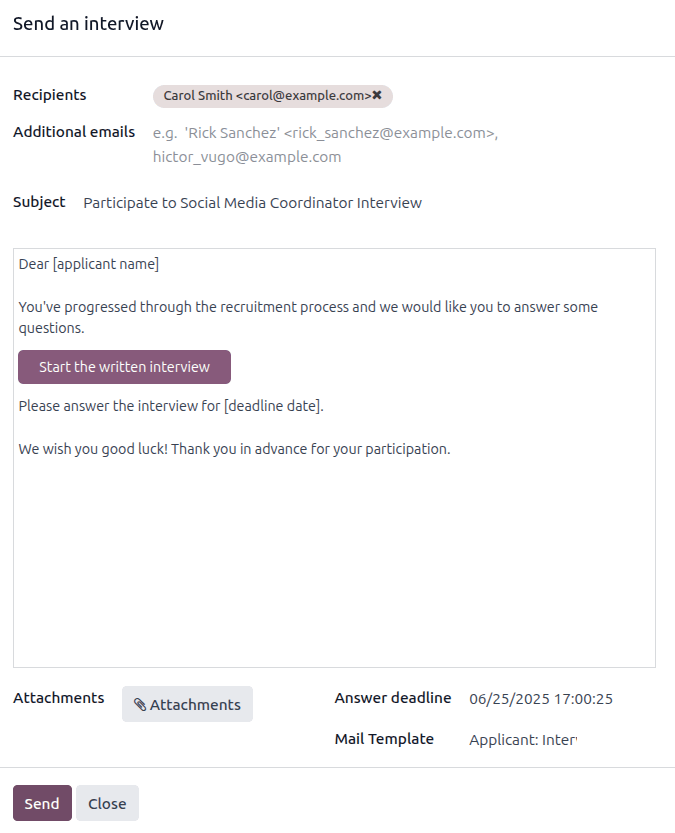
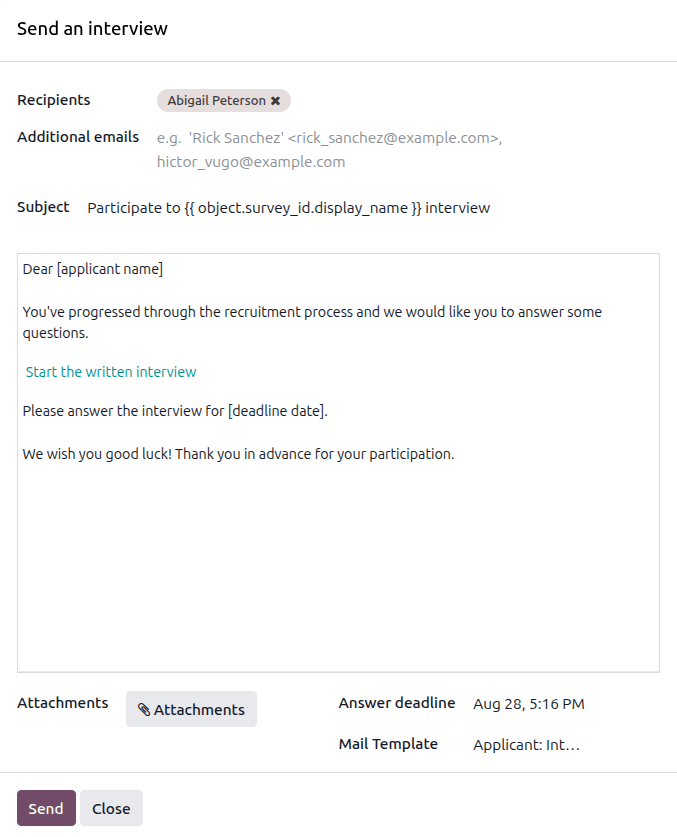
[IMP] Recruitment - Update recruitment flow
closes odoo/documentation#19516

X-original-commit: 29d9d3184c7de5220a4c6d2a27e49932e2eca468

diff --git a/content/applications/hr/recruitment/recruitment-flow.rst b/content/applications/hr/recruitment/recruitment-flow.rst
@@ -3,46 +3,43 @@ Recruitment flow
 ================
 
 When a prospective employee applies for a job in Odoo, there is a preconfigured process from the
-:ref:`initial inquiry <recruitment/new>` to the :ref:`creating of a new employee
-<recruitment/new-employee>` once hired. The following outlines the default recruitment process for
-Odoo's **Recruitment** application.
+:ref:`initial inquiry <recruitment/recruitment_flow/new>` to the :ref:`creation of a new employee
+<recruitment/offer_job_position/new-employee>` once hired. The following outlines the default
+recruitment process for Odoo's **Recruitment** application.
 
 .. important::
-   The following is based on Odoo's default recruitment pipeline. Be advised that if
+   The following is based on Odoo's *default* recruitment pipeline. Be advised that if
    :ref:`modifications are made <recruitment/customize-stages>` to the pipeline, the process
    differs.
 
-.. _recruitment/new:
+.. _recruitment/recruitment_flow/new:
 
 New
 ===
 
 At the start of the process, all applicants appear in the :guilabel:`New` stage on the
-:guilabel:`Applications` page, whether submitted online or if the applicant is :doc:`manually
-entered by a recruiter <add-new-applicants>`.
+*Applications* page, whether they submitted through the company website, emailed a resumé to the
+email alias, or were :doc:`manually added by a recruiter <add-new-applicants>`.
 
-The :guilabel:`Candidate`, :guilabel:`Email`, and :guilabel:`Phone` number on the applicant's card
+The :guilabel:`Applicant`, :guilabel:`Email`, and :guilabel:`Phone` number on the applicant's card
 are filled as soon as it is created. By default, these details are required for every job position.
 
 .. note::
    If the website application form is modified, different fields may be populated, based on what
    information is required on the website.
 
-Anything typed in the *Short Introduction* section appears in the applicant's chatter as an
-:guilabel:`Other Information` note from :guilabel:`OdooBot`.
+Anything typed in the *Short Introduction* section appears in the applicant's chatter as a note from
+:guilabel:`OdooBot`, labeled *Other Information*.
 
 Resumé
 ------
 
-If a resumé was attached to the online application, it appears in the :guilabel:`Files` section of
-the chatter, and is also stored in the **Documents** application.
+If a resumé was attached to the online application, it appears in the *Files* section of the
+chatter, and is also stored in the **Documents** application.
 
-To find the recruitment documents, navigate to the main :menuselection:`Documents app` dashboard,
-and click the :guilabel:`Recruitment` folder on the left-hand side. All recruitment documents are
-stored within that folder.
-
-If the :ref:`CV Display <recruitment/cv-display>` option was enabled in the :ref:`Settings
-<recruitment/settings>` of the **Recruitment** app, the resumé appears on the applicant's card.
+To find the recruitment documents, navigate to the main :menuselection:`Documents` app dashboard,
+and click the :guilabel:`Recruitment` folder on the side. All recruitment documents are stored
+within that folder.
 
 .. note::
    Depending on the browser zoom level, or size of the browser screen, the resumé may appear below
@@ -58,9 +55,8 @@ The **Surveys** application is required to send interviews to an applicant, so i
 installed.
 
 Odoo uses the term *interview*, but these can be thought of as questionnaires, surveys, tests,
-certifications, etc. Custom interviews can be formatted to suit each individual job position's
-needs. For more information on creating and editing interviews, refer to the
-:doc:`../../hr/recruitment/new_job` documentation.
+certifications, etc. :doc:`Custom interviews <new_job>` can be formatted to suit each individual job
+position's needs.
 
 .. example::
    A job position for a computer programmer could have an interview in the form of a programming
@@ -68,83 +64,78 @@ needs. For more information on creating and editing interviews, refer to the
    have a questionnaire inquiring about the applicant's availability, if the desired applicant needs
    to be available on weekend evenings.
 
-To send an interview to an applicant, first click the applicant's card from the
-:guilabel:`Applications` page, to view the detailed applicant information. At the top-left of the
-applicant's card, click the :guilabel:`Send Interview` button.
+To send an interview to an applicant, first open the applicant's card from the *Applications* page
+to view the detailed applicant information. In the top corner of the applicant's card, click the
+:guilabel:`Send Interview` button.
 
-If the applicant's card has an email address on file, a :guilabel:`Send an interview` pop-up window
-appears, with the :guilabel:`Recipients`, :guilabel:`Subject`, and email body populated.
+If the applicant's card has an email address on file, a *Send an interview* pop-up window appears,
+with the :guilabel:`Recipients`, :guilabel:`Subject`, and email body populated.
 
 .. note::
    To send an email to an applicant, there **must** be an :guilabel:`Email` address on the
    applicant's card.
 
-   If an email address is not entered on the applicant's card, when the :guilabel:`Send Interview`
-   button is clicked, an :guilabel:`Edit: (Applicant's Name)` pop-up window appears, *on top of* the
-   :guilabel:`Send an interview` pop-up window.
+   If an email address is missing on the applicant's card, when the :guilabel:`Send Interview`
+   button is clicked and the *Send an interview* pop-up window loads, a second pop-up window appears
+   under the :guilabel:`Recipients` field. This pop-up window displays `What's the email address of
+   (applicant name)?` along with a field to enter the email address. Once entered, click
+   :guilabel:`Set Email`.
 
-   Enter the email address in the :guilabel:`Email` field, then click :guilabel:`Save & Close`.
+   The email address entered is only used to send the interview, and does **not** appear on the
+   applicant's card.
 
-   Once the applicant's information is saved, the :guilabel:`Edit: (Applicant's Name)` pop-up window
-   closes, and the :guilabel:`Send an interview` pop-up window remains.
-
-Sometimes, preconfigured email templates in Odoo use dynamic placeholders, which are automatically
-filled with specific data when the email is sent. For example, if a placeholder for the applicant's
-name is used, it is replaced with the actual name of the applicant in the email. For more detailed
-information on email templates, refer to the :doc:`../../general/companies/email_template`
-documentation.
+Sometimes, preconfigured :doc:`email templates <../../general/companies/email_template>` in Odoo use
+dynamic placeholders, which are automatically filled with specific data when the email is sent. For
+example, if a placeholder for the applicant's name is used, it is replaced with the actual name of
+the applicant in the email.
 
 Add the email addresses of any additional recipients for the survey in the :guilabel:`Additional
 emails` field, if more people should receive the email. If an email address is in the database as a
 contact, add that contact in the :guilabel:`Recipients` field. If an email should be sent to someone
-who is not in the database as a contact, and they should **not** be added as a contact, add their
-email address in the :guilabel:`Additional emails` field.
+who is *not* in the database, and they should *not* be added as a contact, add their email address
+in the :guilabel:`Additional emails` field.
 
 If any attachments need to be added, click the :icon:`fa-paperclip` :guilabel:`Attachments` button,
 and a file explorer window appears. Navigate to the desired file, and click :guilabel:`Open` to
 attach it to the email. The attachment loads, and is listed above the :icon:`fa-paperclip`
 :guilabel:`Attachments` button.
 
-If the emailed interview must be completed by a specific date, enter that date in the
-:guilabel:`Answer deadline` field, located in the lower-right area of the pop-up window.
+The :guilabel:`Answer deadline` field specifies when the interview form must be completed by, and is
+populated with a date and time two weeks in the future. To modify this, click on the displayed date
+and time, navigate to the desired date and click the date to select it. Next, select the time the
+interview is due by clicking into the displayed time, and clicking the desired new deadline.
 
-To do so, click the empty field next to :guilabel:`Answer deadline`, and a calendar selector
-appears. Use the :icon:`fa-chevron-left` :guilabel:`(left)` and :icon:`fa-chevron-right`
-:guilabel:`(right)` arrows, on either side of the month, to navigate to the desired month. Then,
-click on the desired day to select the date. Next, select the time the interview is due, in the two
-fields at the bottom of the calendar selector.
-
-The :guilabel:`Mail Template` field is pre-populated, based on the configuration for the interview.
-A different template can be chosen from the drop-down menu, if desired. If a new template is
-selected, the new email template loads in the email body.
+The :guilabel:`Mail Template` field is pre-populated based on the configuration for the interview. A
+different template can be chosen from the drop-down menu, if desired. If a new template is selected,
+the new email template loads in the email body.
 
 To send the email with the interview link to the applicant, click :guilabel:`Send` at the bottom of
-the email pop-up window.
+the *Send an interview* pop-up window.
 
 .. image:: recruitment-flow/send-survey.png
    :alt: Send a custom survey, also referred to as an interview form, to an applicant using a
          preconfigured template.
 
-.. _recruitment/initial-qualification:
+.. _recruitment/recruitment_flow/initial-qualification:
 
-Initial qualification
-=====================
+Qualification
+=============
 
-If an applicant seems to be a good potential candidate, they are moved to the :guilabel:`Initial
-Qualification` stage.
+If an applicant is determined to be a good potential candidate, they are moved to the
+:guilabel:`Qualification` stage.
 
-This stage exists to sort candidates that have potential, from those that do not meet the
+This stage exists to sort candidates that have potential from those that do not meet the
 requirements. No automatic actions, such as emails, are set for this stage. This stage informs the
 recruitment team to potentially set up a phone call or an interview with the candidate.
 
 .. note::
    In order to move an applicant's card from one stage to another, the applicant's card can either
-   be dragged and dropped in the Kanban view of the :guilabel:`Applications` page to the desired
-   stage, or the stage can be modified on the applicant's card.
+   be dragged and dropped in the Kanban view of the *Applications* page to the desired stage, or the
+   stage can be modified on the applicant's card.
 
    To change the stage on the applicant's card, first click the desired applicant's card from the
-   :guilabel:`Applications` page. The current stage for the card is highlighted at the top on a
-   status bar, above the card.
+   *Applications* page. The current stage for the card is highlighted at the top on a status bar,
+   above the card.
 
    Click the desired stage for the card, and the stage changes. A log note indicating the stage
    change appears in the chatter, as well.
@@ -153,21 +144,19 @@ recruitment team to potentially set up a phone call or an interview with the can
      :alt: Change the stage of an applicant by clicking on the desired stage at the top of the
            applicant's card.
 
-.. _recruitment/first-interview:
+.. _recruitment/recruitment_flow/first-interview:
 
 First interview
 ===============
 
-After an applicant has passed the :guilabel:`Initial Qualification` stage, they can be manually
-moved to the :guilabel:`First Interview` stage on the :guilabel:`Applications` page, while in Kanban
-view.
+After an applicant has passed the :guilabel:`Qualification` stage, they can be manually moved to the
+:guilabel:`First Interview` stage on the *Applications* page, while in Kanban view.
 
-To move the applicant to the next stage, drag-and-drop the applicant's card to the :guilabel:`First
+To move the applicant to the next stage, drag and drop the applicant's card to the :guilabel:`First
 Interview` stage.
 
-Alternatively, open the desired applicant's card from the :guilabel:`Applications` page, and click
-the :guilabel:`First Interview` stage on the status bar at the top of the individual applicant's
-card.
+Alternatively, open the desired applicant's card from the *Applications* page, and click the
+:guilabel:`First Interview` stage on the status bar at the top of the individual applicant's card.
 
 .. tip::
    The :guilabel:`First Interview` stage can be modified, so when the applicant's card moves to the
@@ -176,49 +165,51 @@ card.
    calendar appears, allowing the applicant to schedule their interview.
 
    :ref:`Edit <recruitment/edit-stage>` the :guilabel:`First Interview` stage, and select the
-   :guilabel:`Recruitment: Schedule Interview` option in the :guilabel:`Email Template` field, to
+   :guilabel:`Recruitment: Schedule Interview` option in the :guilabel:`Email Template` field to
    automate this action.
 
-.. _recruitment/second-interview:
+.. _recruitment/recruitment_flow/second-interview:
 
 Second interview
 ================
 
 After an applicant has passed the :guilabel:`First Interview` stage, they can be moved to the
-:guilabel:`Second Interview` stage. To move the applicant to the next stage, drag-and-drop the
+:guilabel:`Second Interview` stage. To move the applicant to the next stage, drag and drop the
 applicant's card to the :guilabel:`Second Interview` stage from the Kanban view of the
-:guilabel:`Applications` page, or click on the :guilabel:`Second Interview` stage at the top of the
-individual applicant's card.
+*Applications* page, or click on the :guilabel:`Second Interview` stage at the top of the individual
+applicant's card.
 
 When the applicant's card moves to the :guilabel:`Second Interview` stage, there are no automatic
 activities or emails configured for this stage, by default. The recruiter can now :ref:`schedule a
 second interview <recruitment/schedule_interviews/recruitment-scheduled>` with the applicant,
 following the same process as the first interview.
 
-.. _recruitment/contract-proposal:
+.. _recruitment/recruitment_flow/contract-proposal:
 
-Contract Proposal
+Contract proposal
 =================
 
 After the applicant has completed the various interview processes, the next step is to :doc:`send
 the job offer <offer_job_positions>`.
 
-Once the offer has been sent, drag-and-drop the applicant's card to the :guilabel:`Contract
-Proposal` stage from the Kanban view of the :guilabel:`Applications` page, or click on the
-:guilabel:`Contract Proposal` stage at the top of the individual applicant's card.
+Once the offer has been sent, drag and drop the applicant's card to the :guilabel:`Contract
+Proposal` stage from the Kanban view of the *Applications* page, or click on the :guilabel:`Contract
+Proposal` stage at the top of the individual applicant's card.
 
-Contract Signed
+Contract signed
 ===============
 
-Once the contract has been signed, and the applicant has been hired, the applicant's card moves to
-the :guilabel:`Contract Signed` stage.
+Once the contract has been fully signed by all parties, and the applicant has been hired, the
+applicant's card moves to the :guilabel:`Contract Signed` stage.
 
-Drag-and-drop the applicant's card to the :guilabel:`Contract Signed` stage from the Kanban view of
-the :guilabel:`Applications` page, or click the :icon:`fa-ellipsis-h` :guilabel:`(ellipsis)` icon at
-the top of the individual applicant's card, then click :guilabel:`Contract Signed` on the status
-bar.
+The :guilabel:`Contract Signed` is folded by default on the *Applications* page, and must be
+expanded before the applicant's card can be manually moved. Click the :icon:`fa-caret-left`
+:icon:`fa-caret-right` :guilabel:`(Unfold)` icon above the :guilabel:`Contract Signed` stage, and
+the stage expands. Next, drag and drop the applicant's card to the :guilabel:`Contract Signed` stage
+from the Kanban view, or click the :guilabel:`Contract Signed` stage at the top of the individual
+applicant's card.
 
-Refuse applicant
-================
+Refused
+=======
 
 At any point in the recruitment process, a candidate can be :doc:`refused <refuse_applicant>`.

diff --git a/content/applications/hr/employees/departments.rst b/content/applications/hr/employees/departments.rst
@@ -69,8 +69,8 @@ department card displays the following information, if available:
 - :guilabel:`Allocation Requests`: The number of unapproved allocation requests for employees in the
   department :ref:`awaiting approval <time_off/manage-allocations>`. This **only** appears if there
   are requests to approve.
-- :guilabel:`New Applicants`: The number of :ref:`new applicants <recruitment/new>` for a position
-  within the department. This **only** appears if there are new applicants.
+- :guilabel:`New Applicants`: The number of :ref:`new applicants <recruitment/recruitment_flow/new>`
+  for a position within the department. This **only** appears if there are new applicants.
 - :guilabel:`Expenses`: The number of employees in the department with :doc:`open expenses to
   approve <../../finance/expenses/approve_expenses>`. This **only** appears if there are any
   expenses waiting for approval.

diff --git a/content/applications/hr/employees/onboarding.rst b/content/applications/hr/employees/onboarding.rst
@@ -150,9 +150,9 @@ Launch onboarding plan
 ======================
 
 After an employee has been hired and their employee profile :ref:`is created
-<recruitment/new-employee>`, navigate to the desired employee's profile by clicking on their Kanban
-card on the **Employees** app dashboard, then click the :guilabel:`Launch Plan` button on their
-employee profile, and a blank *Launch Plan* pop-up window loads.
+<recruitment/offer_job_position/new-employee>`, navigate to the desired employee's profile by
+clicking on their Kanban card on the **Employees** app dashboard, then click the :guilabel:`Launch
+Plan` button on their employee profile, and a blank *Launch Plan* pop-up window loads.
 
 The top of the screen displays a button for each available plan, as well as a button for the various
 available activities. Click the desired onboarding plan to select it. Then, using the calendar

diff --git a/content/applications/hr/recruitment.rst b/content/applications/hr/recruitment.rst
@@ -169,10 +169,10 @@ Inside the job application, the Kanban stages appear, with all the applicants po
 respective columns, indicating what stage they are currently in. In Odoo, six default stages are
 configured:
 
-- :ref:`New <recruitment/new>`
-- :ref:`Initial Qualification <recruitment/initial-qualification>`
-- :ref:`First Interview <recruitment/first-interview>`
-- :ref:`Second Interview <recruitment/second-interview>`
+- :ref:`New <recruitment/recruitment_flow/new>`
+- :ref:`Initial Qualification <recruitment/recruitment_flow/initial-qualification>`
+- :ref:`First Interview <recruitment/recruitment_flow/first-interview>`
+- :ref:`Second Interview <recruitment/recruitment_flow/second-interview>`
 - :doc:`Contract Proposal <recruitment/offer_job_positions>`
 - :ref:`Contract Signed <recruitment/offer_job_positions/contract-signed>`
 

diff --git a/content/applications/hr/recruitment/offer_job_positions.rst b/content/applications/hr/recruitment/offer_job_positions.rst
@@ -161,7 +161,7 @@ both the applicant's card and form.
 .. image:: offer_job_positions/hired.png
    :alt: Hired banner in the top-right corner of applicant card.
 
-.. _recruitment/new-employee:
+.. _recruitment/offer_job_position/new-employee:
 
 Create employee
 ===============
